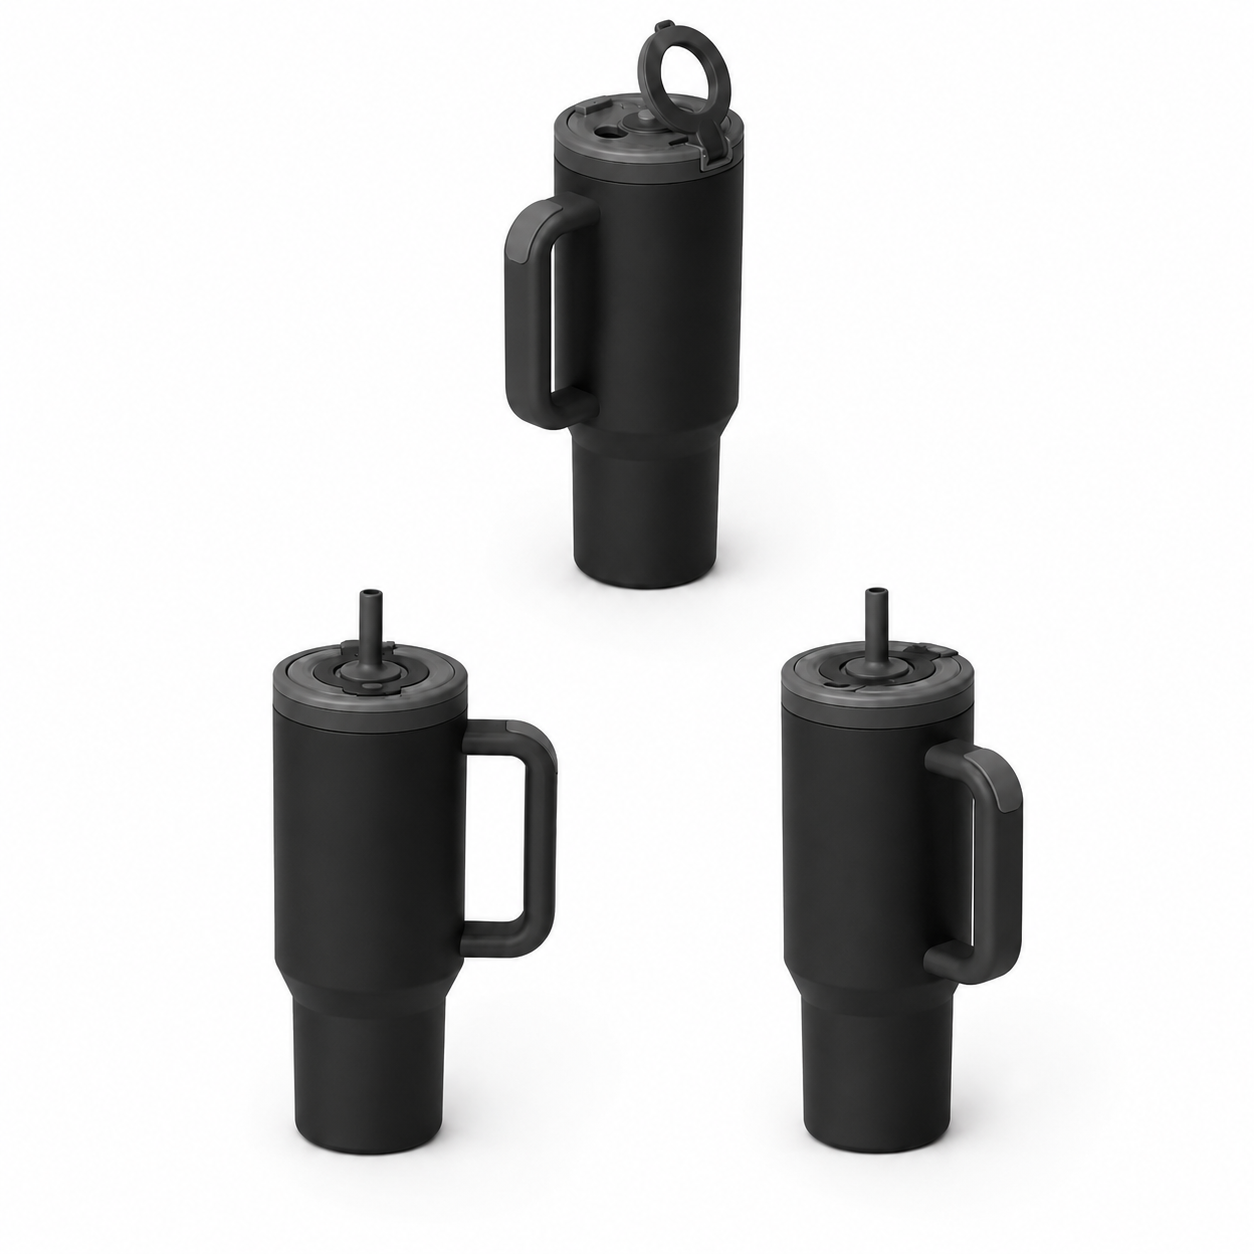
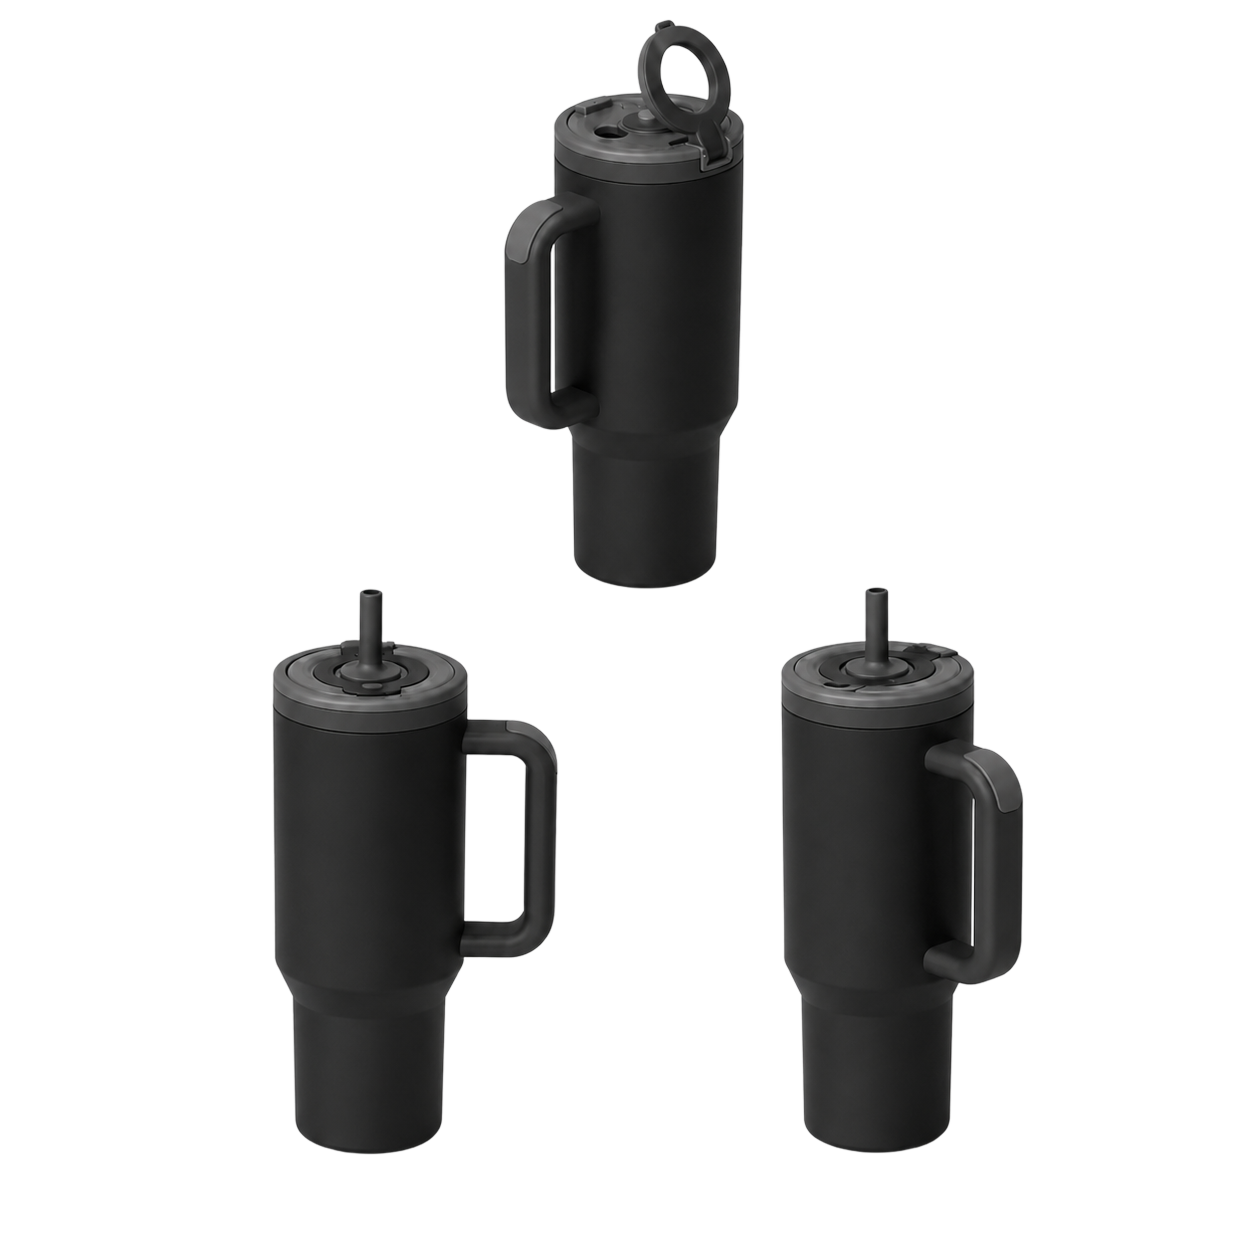
fix: color count, Pink swatch, founder copy, transparent product shots
- Colors: 'Eight'->'Nine' colors in system (5 live + 4 unlock = 9); meta + lede
- Pink swatch unified to #E7A9C0 (was coral #E08572 on AuraFlow); matches product
- Home: reword hero CTA 'Watch the build'->'Read the story' (links to text, not video)
- Home founder section: v3 voice, drop 'building in public' sticker + forged-bottle
  image (implausible); use finished-trio shot; remove double-meaning line
- Product images: replace white-bg renders with background-removed transparent PNGs

diff --git a/index.html b/index.html
@@ -58,7 +58,7 @@
 
       <div class="hero-links">
         <a href="shop.html" class="text-link">Preview the bottle →</a>
-        <a href="about.html" class="text-link">Watch the build →</a>
+        <a href="about.html" class="text-link">Read the story →</a>
       </div>
     </div>
 
@@ -172,14 +172,14 @@
 <section class="founder" id="founder">
   <div class="wrap founder-grid">
     <figure class="founder-photo build-photo">
-      <img src="assets/img/prototype.png" alt="An early Aura prototype from the build process" />
-      <figcaption>Real prototypes. Real misses. The cap took 18 versions.</figcaption>
+      <img src="assets/img/three.png" alt="Three finished Aura bottles in blue, matcha, and pink" />
+      <figcaption>What we shipped.</figcaption>
     </figure>
     <div class="founder-copy">
-      <span class="sticker" style="background:#9BC6D4">building in public</span>
-      <blockquote>"I'm making the bottle I always wished existed. The cap alone took 18 versions. Six leaked, we shipped the eighteenth. Prototypes, mistakes, factory and all, you get to watch it happen."</blockquote>
+      <span class="eyebrow">A note from the founder</span>
+      <blockquote>"I wanted the best one, so I made it. The cap took eighteen tries. Six leaked. I kept the one that didn't, and shipped nothing until it was right. You'll notice it every time you reach for it."</blockquote>
       <div class="sig">THE FOUNDER · MIAMI · EST 2026</div>
-      <a class="founder-link" href="about.html">Follow the build →</a>
+      <a class="founder-link" href="about.html">The whole story →</a>
     </div>
   </div>
 </section>

diff --git a/colors.html b/colors.html
@@ -4,7 +4,7 @@
   <meta charset="utf-8" />
   <meta name="viewport" content="width=device-width, initial-scale=1, viewport-fit=cover" />
   <title>Aura · Pick your color.</title>
-  <meta name="description" content="An eight-color system. Five colorways live now in AuraFlow; the rest unlock as the list grows." />
+  <meta name="description" content="A nine-color system. Five colorways live now in AuraFlow; the rest unlock as the list grows." />
   <link rel="preconnect" href="https://fonts.googleapis.com" />
   <link rel="preconnect" href="https://fonts.gstatic.com" crossorigin />
   <link href="https://fonts.googleapis.com/css2?family=Gabarito:wght@400;500;600;700;800;900&family=Geist:wght@300;400;500;600&family=Geist+Mono:wght@400;500&display=swap" rel="stylesheet" />
@@ -38,7 +38,7 @@
 <header class="page-head">
   <div class="wrap">
     <h1>Pick your color.</h1>
-    <p class="lede">Eight colors in the system. Five live now in AuraFlow. The others unlock as the list grows. We post the vote on TikTok.</p>
+    <p class="lede">Nine colors in the system. Five live now in AuraFlow. The others unlock as the list grows. We post the vote on TikTok.</p>
 
     <div class="drop-list">
       <div class="drop-row"><span>Live now</span><span class="span2">Pink · Lavender · Matcha · Blue · Black</span><span class="status live">Available</span></div>

diff --git a/assets/aura.js b/assets/aura.js
@@ -165,7 +165,7 @@
     AuraFlow: {
       price: 54,
       colors: [
-        { name: 'Pink',     hex: '#E08572', img: 'assets/img/products/auraflow-pink.png' },
+        { name: 'Pink',     hex: '#E7A9C0', img: 'assets/img/products/auraflow-pink.png' },
         { name: 'Lavender', hex: '#C6B4D6', img: 'assets/img/products/auraflow-lavender.png' },
         { name: 'Matcha',   hex: '#7A8B6F', img: 'assets/img/products/auraflow-matcha.png' },
         { name: 'Blue',     hex: '#8FC2CF', img: 'assets/img/products/auraflow-blue.png' },
@@ -175,7 +175,7 @@
     AuraFlex: {
       price: 44,
       colors: [
-        { name: 'Pink',     hex: '#E7B8B8', img: 'assets/img/products/auraflex-pink.png' },
+        { name: 'Pink',     hex: '#E7A9C0', img: 'assets/img/products/auraflex-pink.png' },
         { name: 'Lavender', hex: '#C6B4D6', img: 'assets/img/products/auraflex-lavender.png' },
         { name: 'Matcha',   hex: '#7A8B6F', img: 'assets/img/products/auraflex-matcha.png' },
         { name: 'Blue',     hex: '#8FC2CF', img: 'assets/img/products/auraflex-blue.png' },
